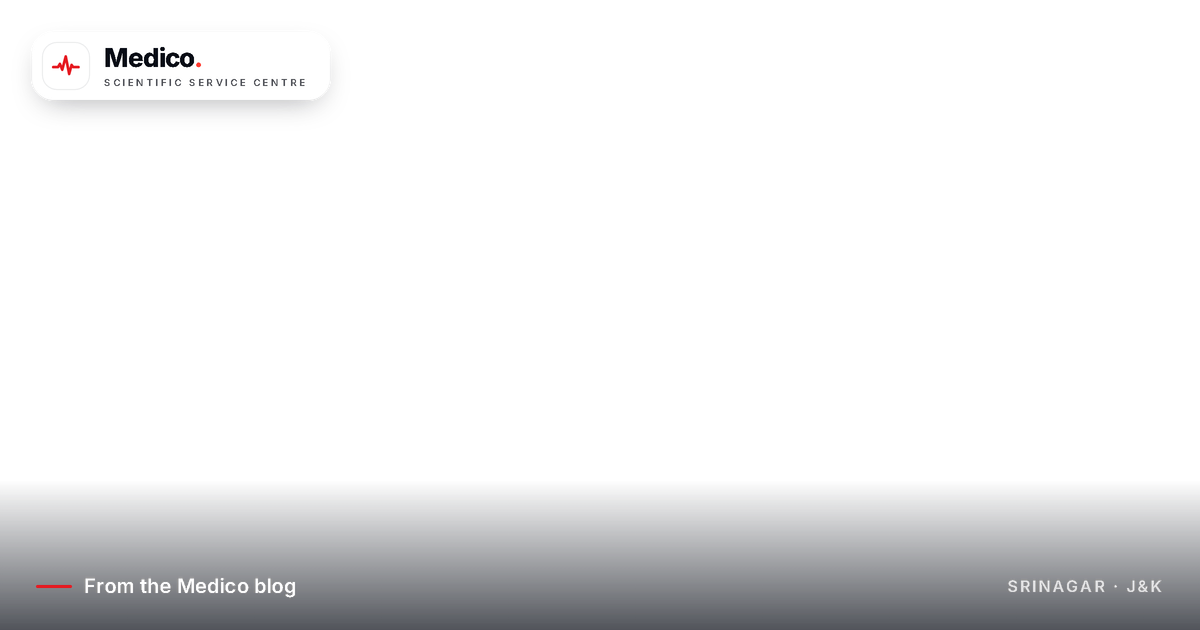
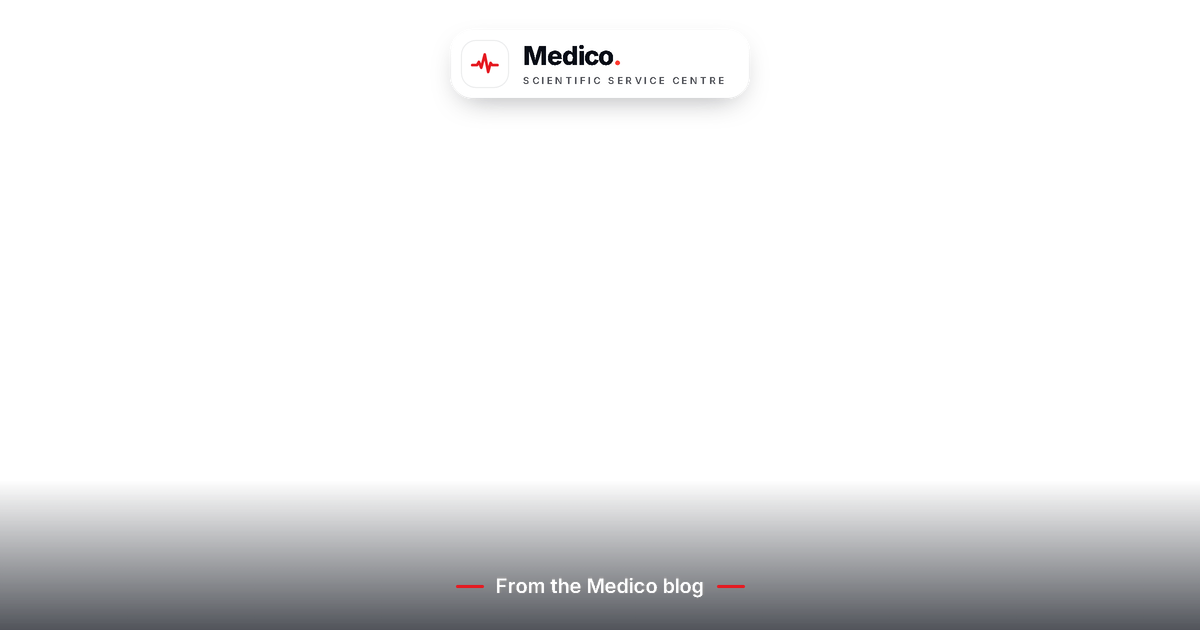
feat(share): centre safe-zone preview cards
WhatsApp's compact preview crops the middle 630x630 of the card and
shrinks it to about 80px, which cut the headline mid-word and crushed
the text. The cards now keep only the brand inside that square: a large
Medico emblem and wordmark with a short page label, over the page photo
that shows on wide previews. Titles and descriptions already appear as
native text beside the thumbnail, so none is baked into the image.

Article and product cards move the logo pill to the top centre and the
label to the bottom centre, so the brand survives the square crop too.
Card URLs carry a design version so WhatsApp and the CDN fetch the new
images instead of cached ones.

diff --git a/tools/og-cards.js b/tools/og-cards.js
@@ -12,11 +12,12 @@ const ROOT = path.join(__dirname, '..');
 const OUT = path.join(ROOT, 'images', 'og');
 const url = (p) => `file:///${path.join(ROOT, p).replace(/\\/g, '/')}`;
 
+// Each card: a short label for the page, and the photo that frames the brand on wide previews
 const CARDS = [
-  { file: 'home', photo: 'images/hero-poster.webp', pos: '70% 40%', title: 'Medical equipment for a <em>healthier</em> tomorrow', sub: 'Supply, installation and 7-day service across Jammu &amp; Kashmir' },
-  { file: 'about', photo: 'images/about-hero.webp', pos: '55% 60%', title: 'Kashmir&rsquo;s equipment partner <em>since 2000</em>', sub: 'Authorised Philips, Schiller and Shalya distributor in Srinagar' },
-  { file: 'shop', photo: 'images/shop-hero.webp', pos: '78% 50%', title: 'Clinical equipment, <em>looked after locally</em>', sub: 'Oxygen &middot; ICU &middot; Anaesthesia &middot; Diagnostics &middot; Surgical' },
-  { file: 'blog', photo: 'images/blog-featured-icu.webp', pos: '50% 50%', title: 'Practical guides for medical equipment <em>in Kashmir</em>', sub: 'Buying advice, care tips and service notes from the Medico team' },
+  { file: 'home', photo: 'images/hero-poster.webp', pos: '70% 40%', label: 'Medical equipment &amp; service' },
+  { file: 'about', photo: 'images/about-hero.webp', pos: '55% 60%', label: 'Serving Kashmir since 2000' },
+  { file: 'shop', photo: 'images/shop-hero.webp', pos: '78% 50%', label: 'Equipment catalogue' },
+  { file: 'blog', photo: 'images/blog-featured-icu.webp', pos: '50% 50%', label: 'The Medico blog' },
 ];
 
 const MARK = '<svg viewBox="0 0 64 64"><path d="M8 34h9l3.5-6 4.5 11 6.5-25 6.5 33 4.5-17 3 4h10"/></svg>';
@@ -35,41 +36,48 @@ const base = `
 
 const lockup = (dark) => `<div class="lockup" style="color:${dark ? '#090d16' : '#fff'}"><span class="mark">${MARK}</span><span><div class="name">Medico<b>.</b></div><div class="sub">Scientific Service Centre</div></span></div>`;
 
-// Centred composition: WhatsApp's compact preview crops the middle square, so the brand and
-// headline sit on the centre line and the photo only sets the mood.
+// Centre safe zone: WhatsApp's compact preview crops the middle 630x630 square and shrinks it to
+// about 80px, so only the brand emblem lives there, big enough to read as an app icon. The page's
+// title and description already sit beside the thumbnail as native text, so none is baked in.
+// On wide previews (iMessage, LinkedIn, X, WhatsApp's large card) the photo fills the sides.
 const pageCard = (c) => `<!doctype html><html><head><style>${base}
   body { position: relative; background: #090d16; color: #fff; }
-  .photo { position: absolute; inset: 0; width: 100%; height: 100%; object-fit: cover; object-position: ${c.pos}; filter: saturate(.9) contrast(1.05); }
-  .veil { position: absolute; inset: 0; background: radial-gradient(ellipse 70% 80% at 50% 48%, rgba(9,13,22,.8) 0%, rgba(9,13,22,.9) 60%, rgba(6,9,16,.97) 100%); }
-  .inner { position: relative; height: 100%; display: flex; flex-direction: column; align-items: center; justify-content: center; text-align: center; padding: 0 120px; }
-  h1 { margin-top: 44px; max-width: 900px; font-size: 64px; font-weight: 800; line-height: 1.04; letter-spacing: -.04em; text-wrap: balance; }
-  h1 em { font-style: normal; color: #ff4d42; }
-  p { margin-top: 22px; font-size: 25px; font-weight: 500; line-height: 1.4; color: rgba(255,255,255,.78); }
-  .foot { position: absolute; left: 0; right: 0; bottom: 36px; display: flex; justify-content: center; align-items: center; gap: 14px; font-size: 17px; font-weight: 600; letter-spacing: .14em; text-transform: uppercase; color: rgba(255,255,255,.6); }
-  .foot::before, .foot::after { content: ''; width: 40px; height: 2px; border-radius: 2px; background: #e5181f; }
+  .photo { position: absolute; inset: 0; width: 100%; height: 100%; object-fit: cover; object-position: ${c.pos}; filter: saturate(.95) contrast(1.04); }
+  .veil { position: absolute; inset: 0; background: radial-gradient(ellipse 560px 400px at 50% 50%, rgba(9,13,22,.9) 0%, rgba(9,13,22,.78) 50%, rgba(9,13,22,.42) 100%); }
+  .inner { position: relative; height: 100%; display: flex; flex-direction: column; align-items: center; justify-content: center; text-align: center; }
+  .label { display: inline-flex; align-items: center; gap: 14px; font-size: 19px; font-weight: 600; letter-spacing: .16em; text-transform: uppercase; color: rgba(255,255,255,.72); }
+  .label::before, .label::after { content: ''; width: 28px; height: 2px; border-radius: 2px; background: #e5181f; }
+  .emblem { display: grid; place-items: center; width: 232px; height: 232px; margin-top: 30px; border-radius: 60px; background: #fff; box-shadow: 0 30px 70px -24px rgba(0,0,0,.7), 0 0 0 10px rgba(255,255,255,.06); }
+  .emblem svg { width: 168px; height: 168px; fill: none; stroke: #e5181f; stroke-width: 5.5; stroke-linecap: round; stroke-linejoin: round; }
+  .word { margin-top: 30px; font-size: 76px; font-weight: 800; letter-spacing: -.045em; line-height: 1; }
+  .word b { color: #ff3b30; }
+  .tag { margin-top: 12px; font-size: 15px; font-weight: 600; letter-spacing: .3em; text-transform: uppercase; color: rgba(255,255,255,.62); }
 </style></head><body>
   <img class="photo" src="${url(c.photo)}">
   <div class="veil"></div>
-  <div class="inner">${lockup(false)}<h1>${c.title}</h1><p>${c.sub}</p></div>
-  <div class="foot">Srinagar &middot; Jammu &amp; Kashmir</div>
+  <div class="inner">
+    <div class="label">${c.label}</div>
+    <div class="emblem">${MARK}</div>
+    <div class="word">Medico<b>.</b></div>
+    <div class="tag">Scientific Service Centre &middot; Srinagar</div>
+  </div>
 </body></html>`;
 
-// Transparent overlay for generated cards: brand top-left, a soft floor with a label.
+// Transparent overlay for generated cards. Everything sits on the centre line so the brand
+// survives WhatsApp's square crop: the logo pill at the top, the label at the bottom.
 const frame = (label, light) => `<!doctype html><html><head><style>${base}
-  .top { position: absolute; top: 32px; left: 32px; padding: 10px 22px 10px 10px; border-radius: 22px; background: rgba(255,255,255,.96); box-shadow: 0 10px 30px -12px rgba(9,13,22,.4); }
+  .top { position: absolute; top: 30px; left: 50%; transform: translateX(-50%); padding: 10px 22px 10px 10px; border-radius: 22px; background: rgba(255,255,255,.96); box-shadow: 0 10px 30px -12px rgba(9,13,22,.4); }
   .top .mark { width: 48px; height: 48px; box-shadow: none; border: 1px solid rgba(11,18,32,.08); }
   .top .mark svg { width: 34px; height: 34px; }
   .top .name { font-size: 26px; } .top .sub { font-size: 9.5px; }
   .floor { position: absolute; left: 0; right: 0; bottom: 0; height: 150px; background: linear-gradient(180deg, rgba(9,13,22,0) 0%, rgba(9,13,22,.7) 100%); }
-  .tag { position: absolute; left: 36px; bottom: 32px; display: inline-flex; align-items: center; gap: 12px; color: #fff; font-size: 20px; font-weight: 600; letter-spacing: .01em; }
-  .tag::before { content: ''; width: 36px; height: 3px; border-radius: 3px; background: #e5181f; }
-  .loc { position: absolute; right: 36px; bottom: 34px; color: rgba(255,255,255,.75); font-size: 16px; font-weight: 600; letter-spacing: .14em; text-transform: uppercase; }
-  ${light ? '.floor { display: none; } .tag { color: #090d16; } .loc { color: #64748b; } .top { box-shadow: 0 0 0 1px rgba(11,18,32,.08), 0 10px 30px -14px rgba(9,13,22,.25); }' : ''}
+  .tag { position: absolute; left: 0; right: 0; bottom: 32px; display: flex; justify-content: center; align-items: center; gap: 12px; color: #fff; font-size: 20px; font-weight: 600; }
+  .tag::before, .tag::after { content: ''; width: 28px; height: 3px; border-radius: 3px; background: #e5181f; }
+  ${light ? '.floor { display: none; } .tag { color: #090d16; } .top { box-shadow: 0 0 0 1px rgba(11,18,32,.08), 0 10px 30px -14px rgba(9,13,22,.25); }' : ''}
 </style></head><body>
   <div class="top">${lockup(true)}</div>
   <div class="floor"></div>
   <div class="tag">${label}</div>
-  <div class="loc">Srinagar &middot; J&amp;K</div>
 </body></html>`;
 
 (async () => {

diff --git a/about.html b/about.html
@@ -13,12 +13,12 @@
   <meta property="og:title" content="About Medico Scientific Service Centre | Medical Equipment Kashmir Since 2000">
   <meta property="og:type" content="website">
   <meta property="og:url" content="https://medico-inky.vercel.app/about.html">
-  <meta property="og:image" content="https://medico-inky.vercel.app/images/og/about.jpg">
+  <meta property="og:image" content="https://medico-inky.vercel.app/images/og/about.jpg?v=2">
   <meta property="og:image:type" content="image/jpeg">
   <meta property="og:image:width" content="1200">
   <meta property="og:image:height" content="630">
   <meta property="og:image:alt" content="Medico, Kashmir's medical equipment partner since 2000">
-  <meta name="twitter:image" content="https://medico-inky.vercel.app/images/og/about.jpg">
+  <meta name="twitter:image" content="https://medico-inky.vercel.app/images/og/about.jpg?v=2">
   <meta name="twitter:image:alt" content="Medico, Kashmir's medical equipment partner since 2000">
   <meta property="og:description" content="Established in 2000 by Mr. Syed Naseer Ahmad Andrabi. Authorised distributor for Philips, Schiller and Shalya, serving 100+ healthcare partners across Jammu & Kashmir.">
   <meta property="og:locale" content="en_IN">

diff --git a/index.html b/index.html
@@ -13,12 +13,12 @@
   <meta property="og:title" content="Medico Scientific Service Centre | Medical Equipment in Kashmir">
   <meta property="og:type" content="website">
   <meta property="og:url" content="https://medico-inky.vercel.app/">
-  <meta property="og:image" content="https://medico-inky.vercel.app/images/og/home.jpg">
+  <meta property="og:image" content="https://medico-inky.vercel.app/images/og/home.jpg?v=2">
   <meta property="og:image:type" content="image/jpeg">
   <meta property="og:image:width" content="1200">
   <meta property="og:image:height" content="630">
   <meta property="og:image:alt" content="Medico Scientific Service Centre: medical equipment for a healthier tomorrow">
-  <meta name="twitter:image" content="https://medico-inky.vercel.app/images/og/home.jpg">
+  <meta name="twitter:image" content="https://medico-inky.vercel.app/images/og/home.jpg?v=2">
   <meta name="twitter:image:alt" content="Medico Scientific Service Centre: medical equipment for a healthier tomorrow">
   <meta property="og:description" content="Authorised Philips, Schiller & Shalya distributor. Supply, installation, training and 7-day service across Jammu & Kashmir since 2000.">
   <meta property="og:locale" content="en_IN">

diff --git a/shop.html b/shop.html
@@ -14,12 +14,12 @@
   <meta property="og:title" content="Clinical Equipment & Hospital Infrastructure | Medico Scientific Service Centre">
   <meta property="og:type" content="website">
   <meta property="og:url" content="https://medico-inky.vercel.app/shop.html">
-  <meta property="og:image" content="https://medico-inky.vercel.app/images/og/shop.jpg">
+  <meta property="og:image" content="https://medico-inky.vercel.app/images/og/shop.jpg?v=2">
   <meta property="og:image:type" content="image/jpeg">
   <meta property="og:image:width" content="1200">
   <meta property="og:image:height" content="630">
   <meta property="og:image:alt" content="Medico equipment catalogue: clinical equipment, looked after locally">
-  <meta name="twitter:image" content="https://medico-inky.vercel.app/images/og/shop.jpg">
+  <meta name="twitter:image" content="https://medico-inky.vercel.app/images/og/shop.jpg?v=2">
   <meta name="twitter:image:alt" content="Medico equipment catalogue: clinical equipment, looked after locally">
   <meta property="og:description"
     content="Clinical-grade oxygen concentrators, CPAP/BiPAP machines, anaesthesia workstations, defibrillators and critical care monitors in Srinagar, Kashmir.">

diff --git a/blog.html b/blog.html
@@ -13,12 +13,12 @@
   <meta property="og:title" content="Medical equipment guides for Kashmir | Medico blog">
   <meta property="og:type" content="website">
   <meta property="og:url" content="https://medico-inky.vercel.app/blog.html">
-  <meta property="og:image" content="https://medico-inky.vercel.app/images/og/blog.jpg">
+  <meta property="og:image" content="https://medico-inky.vercel.app/images/og/blog.jpg?v=2">
   <meta property="og:image:type" content="image/jpeg">
   <meta property="og:image:width" content="1200">
   <meta property="og:image:height" content="630">
   <meta property="og:image:alt" content="The Medico blog: practical guides for medical equipment in Kashmir">
-  <meta name="twitter:image" content="https://medico-inky.vercel.app/images/og/blog.jpg">
+  <meta name="twitter:image" content="https://medico-inky.vercel.app/images/og/blog.jpg?v=2">
   <meta name="twitter:image:alt" content="The Medico blog: practical guides for medical equipment in Kashmir">
   <meta property="og:description" content="Clinical insights, equipment guides and healthcare updates for Jammu & Kashmir.">
   <meta property="og:locale" content="en_IN">

diff --git a/product.html b/product.html
@@ -12,12 +12,12 @@
   <meta property="og:title" content="Medico Scientific Service Centre | Medical Equipment">
   <meta property="og:type" content="product">
   <meta property="og:url" content="https://medico-inky.vercel.app/product.html">
-  <meta property="og:image" content="https://medico-inky.vercel.app/images/og/shop.jpg">
+  <meta property="og:image" content="https://medico-inky.vercel.app/images/og/shop.jpg?v=2">
   <meta property="og:image:type" content="image/jpeg">
   <meta property="og:image:width" content="1200">
   <meta property="og:image:height" content="630">
   <meta property="og:image:alt" content="Medico equipment catalogue">
-  <meta name="twitter:image" content="https://medico-inky.vercel.app/images/og/shop.jpg">
+  <meta name="twitter:image" content="https://medico-inky.vercel.app/images/og/shop.jpg?v=2">
   <meta name="twitter:image:alt" content="Medico equipment catalogue">
   <meta property="og:locale" content="en_IN">
   <meta property="og:site_name" content="Medico Scientific Service Centre">

diff --git a/privacy-policy.html b/privacy-policy.html
@@ -14,12 +14,12 @@
   <meta property="og:locale" content="en_IN">
   <meta property="og:site_name" content="Medico Scientific Service Centre">
   <meta name="twitter:card" content="summary_large_image">
-  <meta property="og:image" content="https://medico-inky.vercel.app/images/og/home.jpg">
+  <meta property="og:image" content="https://medico-inky.vercel.app/images/og/home.jpg?v=2">
   <meta property="og:image:type" content="image/jpeg">
   <meta property="og:image:width" content="1200">
   <meta property="og:image:height" content="630">
   <meta property="og:image:alt" content="Medico Scientific Service Centre">
-  <meta name="twitter:image" content="https://medico-inky.vercel.app/images/og/home.jpg">
+  <meta name="twitter:image" content="https://medico-inky.vercel.app/images/og/home.jpg?v=2">
   <meta name="twitter:image:alt" content="Medico Scientific Service Centre">
   <meta name="robots" content="noindex, follow">
   <meta name="theme-color" content="#ffffff">

diff --git a/terms.html b/terms.html
@@ -14,12 +14,12 @@
   <meta property="og:locale" content="en_IN">
   <meta property="og:site_name" content="Medico Scientific Service Centre">
   <meta name="twitter:card" content="summary_large_image">
-  <meta property="og:image" content="https://medico-inky.vercel.app/images/og/home.jpg">
+  <meta property="og:image" content="https://medico-inky.vercel.app/images/og/home.jpg?v=2">
   <meta property="og:image:type" content="image/jpeg">
   <meta property="og:image:width" content="1200">
   <meta property="og:image:height" content="630">
   <meta property="og:image:alt" content="Medico Scientific Service Centre">
-  <meta name="twitter:image" content="https://medico-inky.vercel.app/images/og/home.jpg">
+  <meta name="twitter:image" content="https://medico-inky.vercel.app/images/og/home.jpg?v=2">
   <meta name="twitter:image:alt" content="Medico Scientific Service Centre">
   <meta name="robots" content="noindex, follow">
   <meta name="theme-color" content="#ffffff">

diff --git a/blog-post.html b/blog-post.html
@@ -12,12 +12,12 @@
   <meta property="og:title" content="Medico blog">
   <meta property="og:type" content="article">
   <meta property="og:url" content="https://medico-inky.vercel.app/blog-post.html">
-  <meta property="og:image" content="https://medico-inky.vercel.app/images/og/blog.jpg">
+  <meta property="og:image" content="https://medico-inky.vercel.app/images/og/blog.jpg?v=2">
   <meta property="og:image:type" content="image/jpeg">
   <meta property="og:image:width" content="1200">
   <meta property="og:image:height" content="630">
   <meta property="og:image:alt" content="The Medico blog">
-  <meta name="twitter:image" content="https://medico-inky.vercel.app/images/og/blog.jpg">
+  <meta name="twitter:image" content="https://medico-inky.vercel.app/images/og/blog.jpg?v=2">
   <meta name="twitter:image:alt" content="The Medico blog">
   <meta property="og:locale" content="en_IN">
   <meta property="og:site_name" content="Medico Scientific Service Centre">

diff --git a/api/render.js b/api/render.js
@@ -59,7 +59,9 @@ function setHead(ed, { title, description, canonical, image, card, imageAlt, typ
 }
 
 /** Branded share card URL; the version changes whenever the title or picture does. */
-const cardUrl = (kind, id, ...parts) => `${siteUrl()}/og/${kind}/${encodeURIComponent(id)}.jpg?v=${require('crypto').createHash('md5').update(parts.join('|')).digest('hex').slice(0, 8)}`;
+const cardUrl = (kind, id, ...parts) => `${siteUrl()}/og/${kind}/${encodeURIComponent(id)}.jpg?v=${require('crypto').createHash('md5').update([CARD_DESIGN, ...parts].join('|')).digest('hex').slice(0, 8)}`;
+// Bump CARD_DESIGN whenever tools/og-cards.js changes the frames, so caches fetch the new look
+const CARD_DESIGN = '2';
 
 const insightCard = (p) => `<a href="/blog/${encodeURIComponent(p.slug)}" class="insight">
             <div class="insight-media" data-media>
